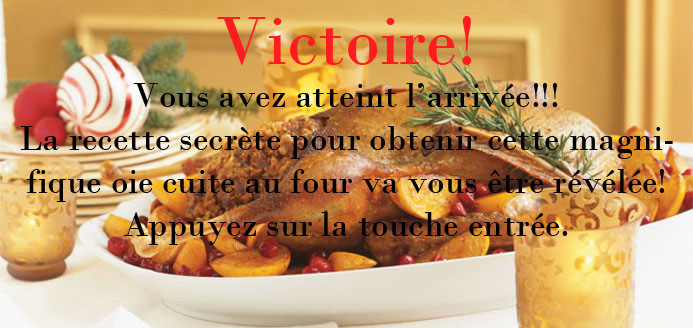
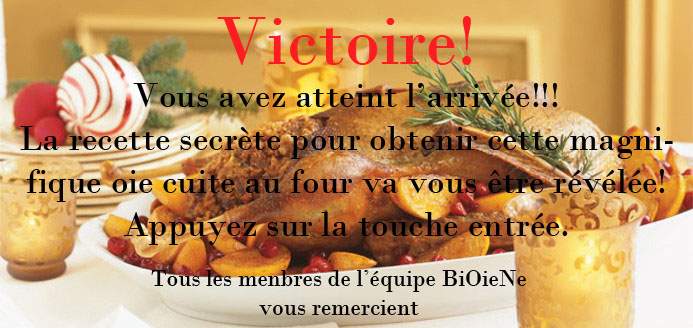
Rajout du nom du groupe

Changed region(s): [[0.2121, 0.8232, 0.7576, 0.8841], [0.3636, 0.9146, 0.6061, 0.9756]]

diff --git a/JeuDeLOie/JeuDeLOie/JeuDeLOie/Game1.cs b/JeuDeLOie/JeuDeLOie/JeuDeLOie/Game1.cs
@@ -71,7 +71,7 @@ namespace JeuDeLOie
         /// </summary>
         protected override void Initialize()
         {
-            CurrentGameState = GameState.Victory;
+            CurrentGameState = GameState.Title;
             // TODO: Add your initialization logic here
 
             tourActuel = 0;
